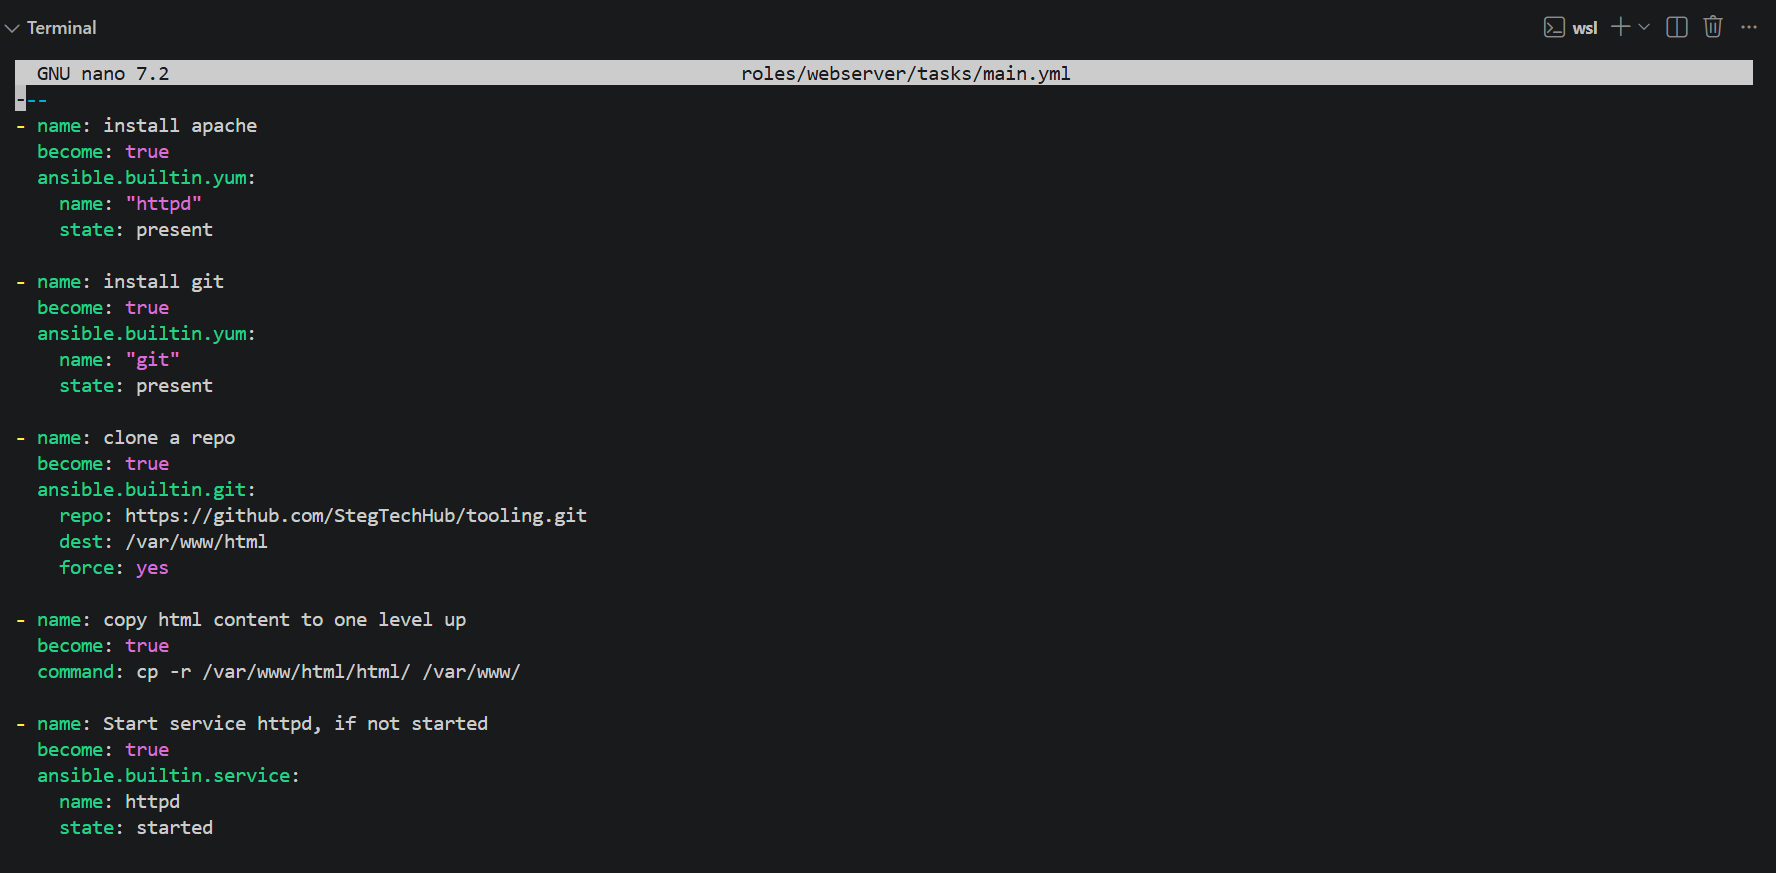
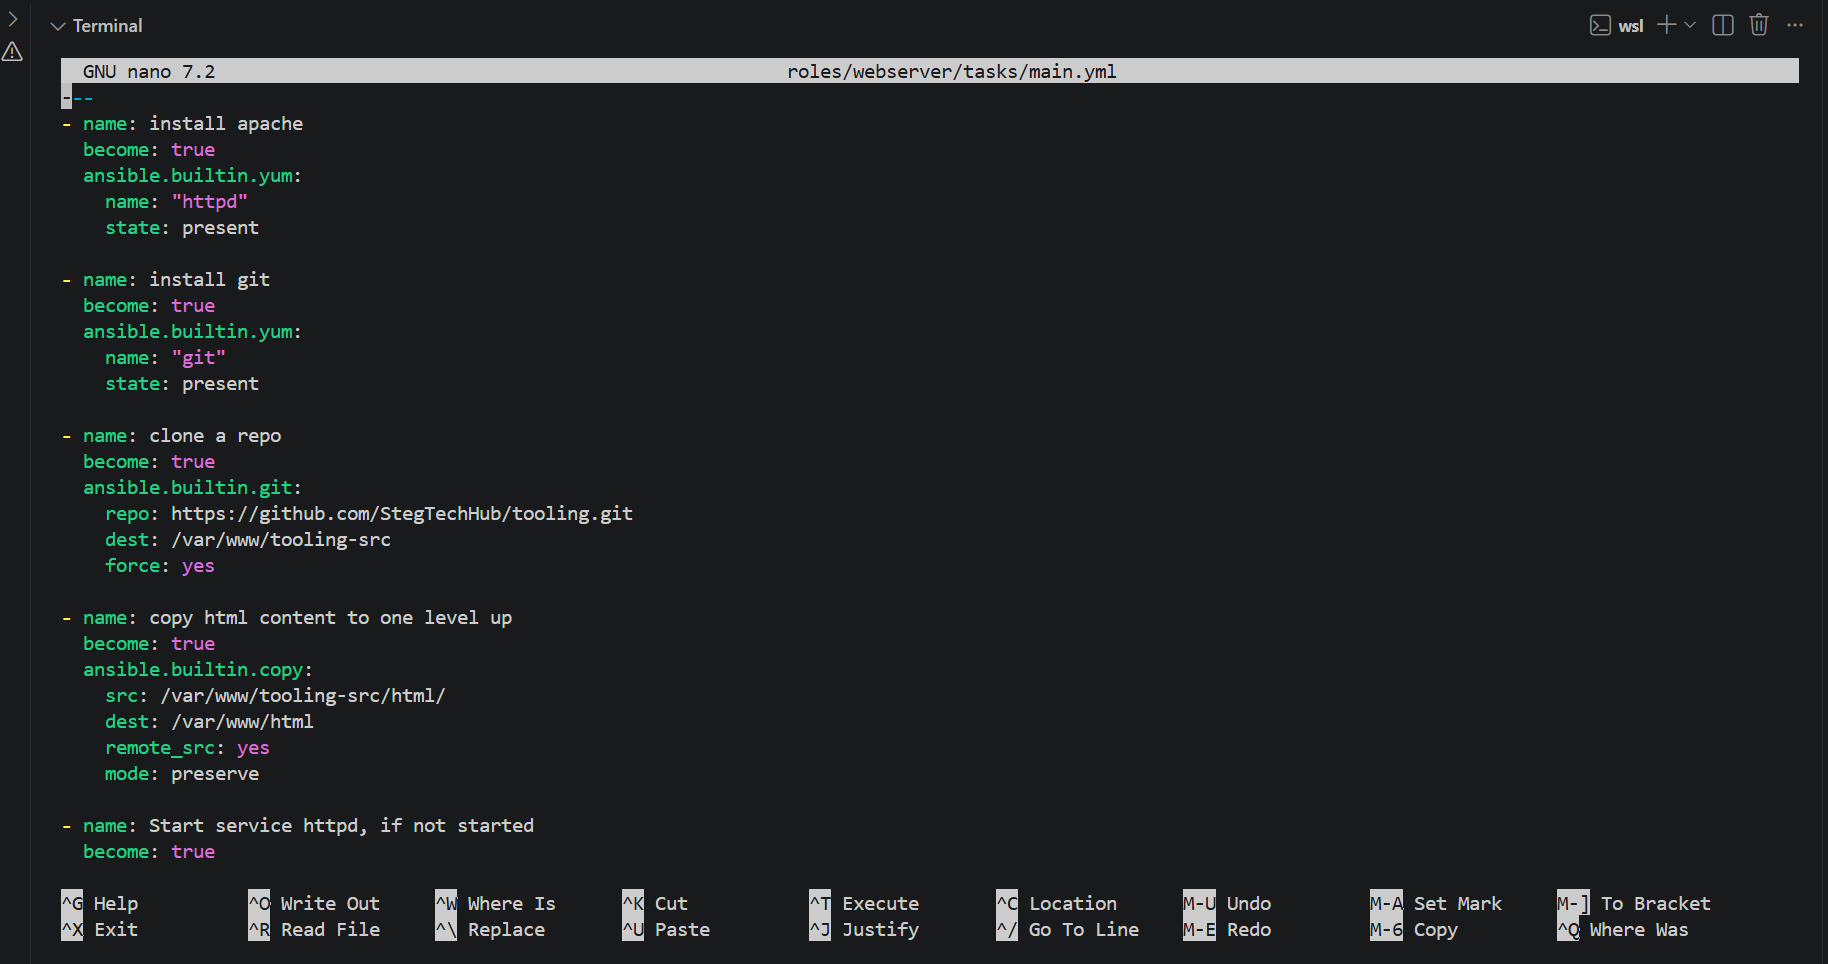
Add complete Ansible implementation, fix import structure, permissions, and idempotency issues

diff --git a/README.md b/README.md
@@ -1,3 +1,5 @@
+cd ~/Ansible-Refactoring
+cat > README.md << 'ENDOFFILE'
 # Ansible Refactoring & Static Assignments (Imports & Roles)
 
 Refactoring is a general term in computer programming. It means making changes to the source code without changing expected behaviour of the software. The main idea of refactoring is to enhance code readability, increase maintainability and extensibility, reduce complexity, add proper comments without affecting the logic.
@@ -17,11 +19,13 @@ sudo mkdir /home/ubuntu/ansible-config-artifact
 ```
 ![img2](./images/img2.png)
 
-2. Change permissions to the directory sp jenkins can save files there 
+2. Change permissions to the directory so jenkins can save files there 
 ```bash 
 sudo chmod -R 0777 /home/ubuntu/ansible-config-artifact
 ```
 ![img3](./images/img3.png)
+
+**Note:** the `0777` permission above was used temporarily to unblock troubleshooting. See the follow-up fix below where this is replaced with a secure, minimal permission model.
 
 3. Go to Jenkins web console -> Manage Jenkins -> Manage Plugins -> on Available tab search for ```Copy Artifact``` and install this plugin without restarting Jenkins. 
 
@@ -39,7 +43,7 @@ sudo chmod -R 0777 /home/ubuntu/ansible-config-artifact
 6. The main idea of save_artifacts project is to save artifacts into /home/ubuntu/ansible-config-artifact directory. To achieve this, create a Build step and choose Copy artifacts from other project, specify ansible as a source project and /home/ubuntu/ansible-config-artifact as a target directory. 
 ![img9](./images/img9.png)
 
-7. Test the set up by making some change in README.MD file inside your ansible-config-mgt repository. 
+7. Test the set up by making some change in README.MD file inside the ansible-config-mgt repository. 
 
 ![img10](./images/img10.png)
 
@@ -57,9 +61,28 @@ Confirmed fixed — `save_artifacts` build succeeded on the next trigger.
 ![img11](./images/img11.png)
 ![img12](./images/img12.png)
 
+## Issue: Permanent 0777 permissions on artifact directory
+
+**Problem:** The `chmod -R 0777` above was only ever meant to unblock troubleshooting, but 0777 grants full read/write/execute access to every user on the system — not appropriate as a permanent configuration.
+
+**Fix:** Jenkins runs as its own dedicated `jenkins` system user (confirmed via `getent passwd jenkins`). Ownership was corrected and permissions tightened to only what Jenkins actually needs:
+
+```bash
+sudo chown -R jenkins:jenkins /home/ubuntu/ansible-config-artifact
+sudo chmod -R 750 /home/ubuntu/ansible-config-artifact
+```
+
+`750` grants the `jenkins` owner full access, the `jenkins` group read+execute, and no access at all to anyone else — a significant reduction from `777`.
+
+Confirmed working — re-triggered the Jenkins pipeline and `save_artifacts` still completed successfully with the tighter permissions ("Copied 58 artifacts... Finished: SUCCESS").
+
+![img42](./images/img42.png)
+
+**Note on directory structure:** `/home/ubuntu/ansible-config-artifact` and `/home/ubuntu/ansible-config-mgt` serve two different purposes. `ansible-config-artifact` is an archival copy of each build, populated by the `save_artifacts` Jenkins job for auditing/history. `ansible-config-mgt` is the live working directory — a git clone of the actual repository — that `ansible-playbook` commands are actually run from.
+
 Step 2 – Refactor Ansible code by importing other playbooks into ```site.yml```
 
-Before refactoring, pull the latest code from the master branch and create a new refactor branch.
+Before refactoring, pull the latest code from the main branch and create a new refactor branch.
 
 Refactoring is about continuously improving code for better organization, efficiency, and maintainability. While common.yml currently contains all tasks in one file, this approach can become difficult to manage as the number of tasks and supported OS/server types increases.
 
@@ -89,10 +112,11 @@ sudo mv playbooks/common.yml static-assignments/common.yml
 4. Inside ```site.yml``` file, import ```common.yml``` playbook.
 ```bash
 ---
-- hosts: all
 - import_playbook: ../static-assignments/common.yml
 ```
 ![img16](./images/img16.png)
+
+**Note:** `import_playbook` must stand on its own — it should not be preceded by a separate `- hosts:` play. Host targeting belongs inside the imported playbook itself (`common.yml` already defines its own `- hosts: all`), not in `site.yml`.
 
 5. Create another playbook under static-assignments and name it common-del.yml
 
@@ -109,7 +133,7 @@ nano playbooks/site.yml
 ![img18](./images/img18.png)
 ![img19](./images/img19.png)
 
-6. Run the list-tasks
+6. Run the playbook against the dev inventory
 
 ```bash
 ansible-playbook -i inventory/dev.yml playbooks/site.yml
@@ -183,28 +207,39 @@ sudo nano /etc/ansible/ansible.cfg
 - name: clone a repo
   become: true
   ansible.builtin.git:
-    repo: repo: https://github.com/StegTechHub/tooling.git
-dest: /var/www/html
-    dest: /var/www/html
+    repo: https://github.com/StegTechHub/tooling.git
+    dest: /var/www/tooling-src
     force: yes
 
 - name: copy html content to one level up
   become: true
-  command: cp -r /var/www/html/html/ /var/www/
+  ansible.builtin.copy:
+    src: /var/www/tooling-src/html/
+    dest: /var/www/html/
+    remote_src: yes
+    mode: preserve
 
 - name: Start service httpd, if not started
   become: true
   ansible.builtin.service:
     name: httpd
     state: started
-
-- name: recursively remove /var/www/html/html/ directory
-  become: true
-  ansible.builtin.file:
-    path: /var/www/html/html
-    state: absent
 ```
 ![img29](./images/img29.png)
+
+## Issue: wrong source repository cloned
+
+**Error:** `cp: cannot stat '/var/www/html/html/': No such file or directory`
+
+**Cause:** The role's `git clone` task originally pointed at a personal documentation repo (`Devops-tooling-website-on-aws`, containing only a README and screenshots) instead of the actual Tooling website source code.
+
+**Fix:** Updated the `repo:` field to the correct source, `https://github.com/StegTechHub/tooling.git`.
+
+## Issue: non-idempotent file copy
+
+**Problem:** The original approach cloned directly into `/var/www/html`, then used `command: cp -r ...` to flatten a nested folder, followed by a cleanup task to delete it. This meant every playbook run altered the clone's working directory, forcing git to re-clone and the copy/cleanup tasks to repeat — reporting `changed` on every run, even when nothing had actually changed.
+
+**Fix:** The repo is now cloned into its own separate folder (`/var/www/tooling-src`), and `ansible.builtin.copy` (with `remote_src: yes`) copies the site content into `/var/www/html`. This module compares file content before making changes, so it only reports `changed` when something genuinely differs — and no cleanup step is needed at all, since nothing extra is ever created inside `/var/www/html`.
 
 # Step 4 – Reference 'Webserver' role
 
@@ -228,10 +263,7 @@ nano playbooks/site.yml
 
 ```bash
 ---
-- hosts: all
 - import_playbook: ../static-assignments/common.yml
-
-- hosts: uat-webservers
 - import_playbook: ../static-assignments/uat-webservers.yml
 ```
 ![img31](./images/img31.png)
@@ -245,34 +277,60 @@ After completing the webserver role and refactoring site.yml with static assignm
 ![img33](./images/img33.png)
 ![img34](./images/img34.png)
 
-2. The webhook successfully triggered the two jenkins job
+2. The webhook successfully triggered the two jenkins jobs
 
 ![img35](./images/img35.png)
 ![img36](./images/img36.png)
 
-Confirmed via Jenkins Console Output (save_artifacts build #3): "Copied 58 artifacts from 'Ansible' build number 5 — Finished: SUCCESS". This verifies the webhook-triggered pipeline correctly delivered all updated files from GitHub to the Jenkins-Ansible server's /home/ubuntu/ansible-config-mgt/ directory.
+Confirmed via Jenkins Console Output (save_artifacts build #3): "Copied 58 artifacts from 'Ansible' build number 5 — Finished: SUCCESS". This verifies the webhook-triggered pipeline correctly delivered all updated files from GitHub to the Jenkins-Ansible server.
 ![img37](./images/img37.png)
 
-3. Run the playbook against the UAT inventory
+3. Run --list-tasks to preview the playbook structure before execution
+
+```bash
+ansible-playbook -i inventory/uat.yml playbooks/site.yml --list-tasks
+```
+![img43](./images/img43.png)
+
+4. Run a syntax check
+
+```bash
+ansible-playbook -i inventory/uat.yml playbooks/site.yml --syntax-check
+```
+![img44](./images/img44.png)
+
+5. Run ansible-lint
+
+```bash
+ansible-lint playbooks/site.yml
+```
+Output showed 30 style/idempotency-related notices across the codebase. The `package-latest` and `latest[git]` idempotency warnings were addressed directly as part of the fixes above; remaining notices are cosmetic style conventions (naming case, quoting style) outside the scope of this refactor.
+
+6. Run the playbook against the UAT inventory
+
 ```bash
 ansible-playbook -i inventory/uat.yml playbooks/site.yml
 ```
 ![img38](./images/img38.png)
-![img39](./images/img39.png)
 
-4. Verify both UAT Web servers (Web1-UAT and Web2-UAT) are correctly configured with the webserver role and successfully serve the StegTechHub Tooling website when accessed via browser. 
+7. Verify both UAT Web servers (Web1-UAT and Web2-UAT) are correctly configured with the webserver role and successfully serve the StegTechHub Tooling website when accessed via browser. 
 
-```bash
-http://44.200.103.57/index.php
-http://35.171.47.181/index.php
-```
 ![img40](./images/img40.png)
 ![img41](./images/img41.png)
 
-# Conclusion: Conclusion
+## Evidence of Idempotency
+
+To confirm the refactored role converges correctly, the playbook was run against the UAT inventory after the servers were already correctly configured. Every task reports `ok`, and the recap shows `changed=0` on both servers — confirming no unnecessary work is performed on repeated execution:
+
+![img45](./images/img45.png)
+
+# Conclusion
 
 In this project, the Project 11 Ansible codebase was refactored using imports and roles, restructuring it into a modular site.yml entry-point playbook that imports smaller, reusable playbooks from a static-assignments directory. A dedicated webserver role was built to configure two new UAT web servers, and connected via a static assignment imported into site.yml.
 
-After changes were committed and pushed, the Jenkins webhook was confirmed to have correctly delivered the code to the Jenkins-Ansible server. Running the playbook against the UAT inventory initially failed due to the role pointing to the wrong source repository; this was traced and fixed by updating it to the correct StegTechHub Tooling repo. After the fix, the playbook ran cleanly, and both UAT web servers were verified live and serving the Tooling website in the browser.
+After changes were committed and pushed, the Jenkins webhook was confirmed to have correctly delivered the code to the Jenkins-Ansible server. Running the playbook against the UAT inventory initially failed due to the role pointing to the wrong source repository; this was traced and fixed by updating it to the correct StegTechHub Tooling repo.
 
-This project strengthened understanding of Ansible's modular structure for scaling configuration across environments, and provided practical experience debugging a real deployment issue.
+Following tutor review, three further corrections were made: the `site.yml` import structure was simplified to use bare `import_playbook` entries rather than redundant standalone `hosts:` plays; the artifact directory's permanent `0777` permissions were replaced with a minimal `jenkins:jenkins` ownership and `750` permission model; and the non-idempotent `cp -r` copy step was replaced with a separate clone location plus `ansible.builtin.copy`, verified to converge correctly with a clean `changed=0` re-run.
+
+This project strengthened understanding of Ansible's modular structure for scaling configuration across environments, the practical meaning of idempotency in configuration management, and provided real experience debugging both a deployment issue and a design flaw in task ordering.
+ENDOFFILE

diff --git a/roles/webserver/README.md b/roles/webserver/README.md
@@ -1,0 +1,38 @@
+Role Name
+=========
+
+A brief description of the role goes here.
+
+Requirements
+------------
+
+Any pre-requisites that may not be covered by Ansible itself or the role should be mentioned here. For instance, if the role uses the EC2 module, it may be a good idea to mention in this section that the boto package is required.
+
+Role Variables
+--------------
+
+A description of the settable variables for this role should go here, including any variables that are in defaults/main.yml, vars/main.yml, and any variables that can/should be set via parameters to the role. Any variables that are read from other roles and/or the global scope (ie. hostvars, group vars, etc.) should be mentioned here as well.
+
+Dependencies
+------------
+
+A list of other roles hosted on Galaxy should go here, plus any details in regards to parameters that may need to be set for other roles, or variables that are used from other roles.
+
+Example Playbook
+----------------
+
+Including an example of how to use your role (for instance, with variables passed in as parameters) is always nice for users too:
+
+    - hosts: servers
+      roles:
+         - { role: username.rolename, x: 42 }
+
+License
+-------
+
+BSD
+
+Author Information
+------------------
+
+An optional section for the role authors to include contact information, or a website (HTML is not allowed).
